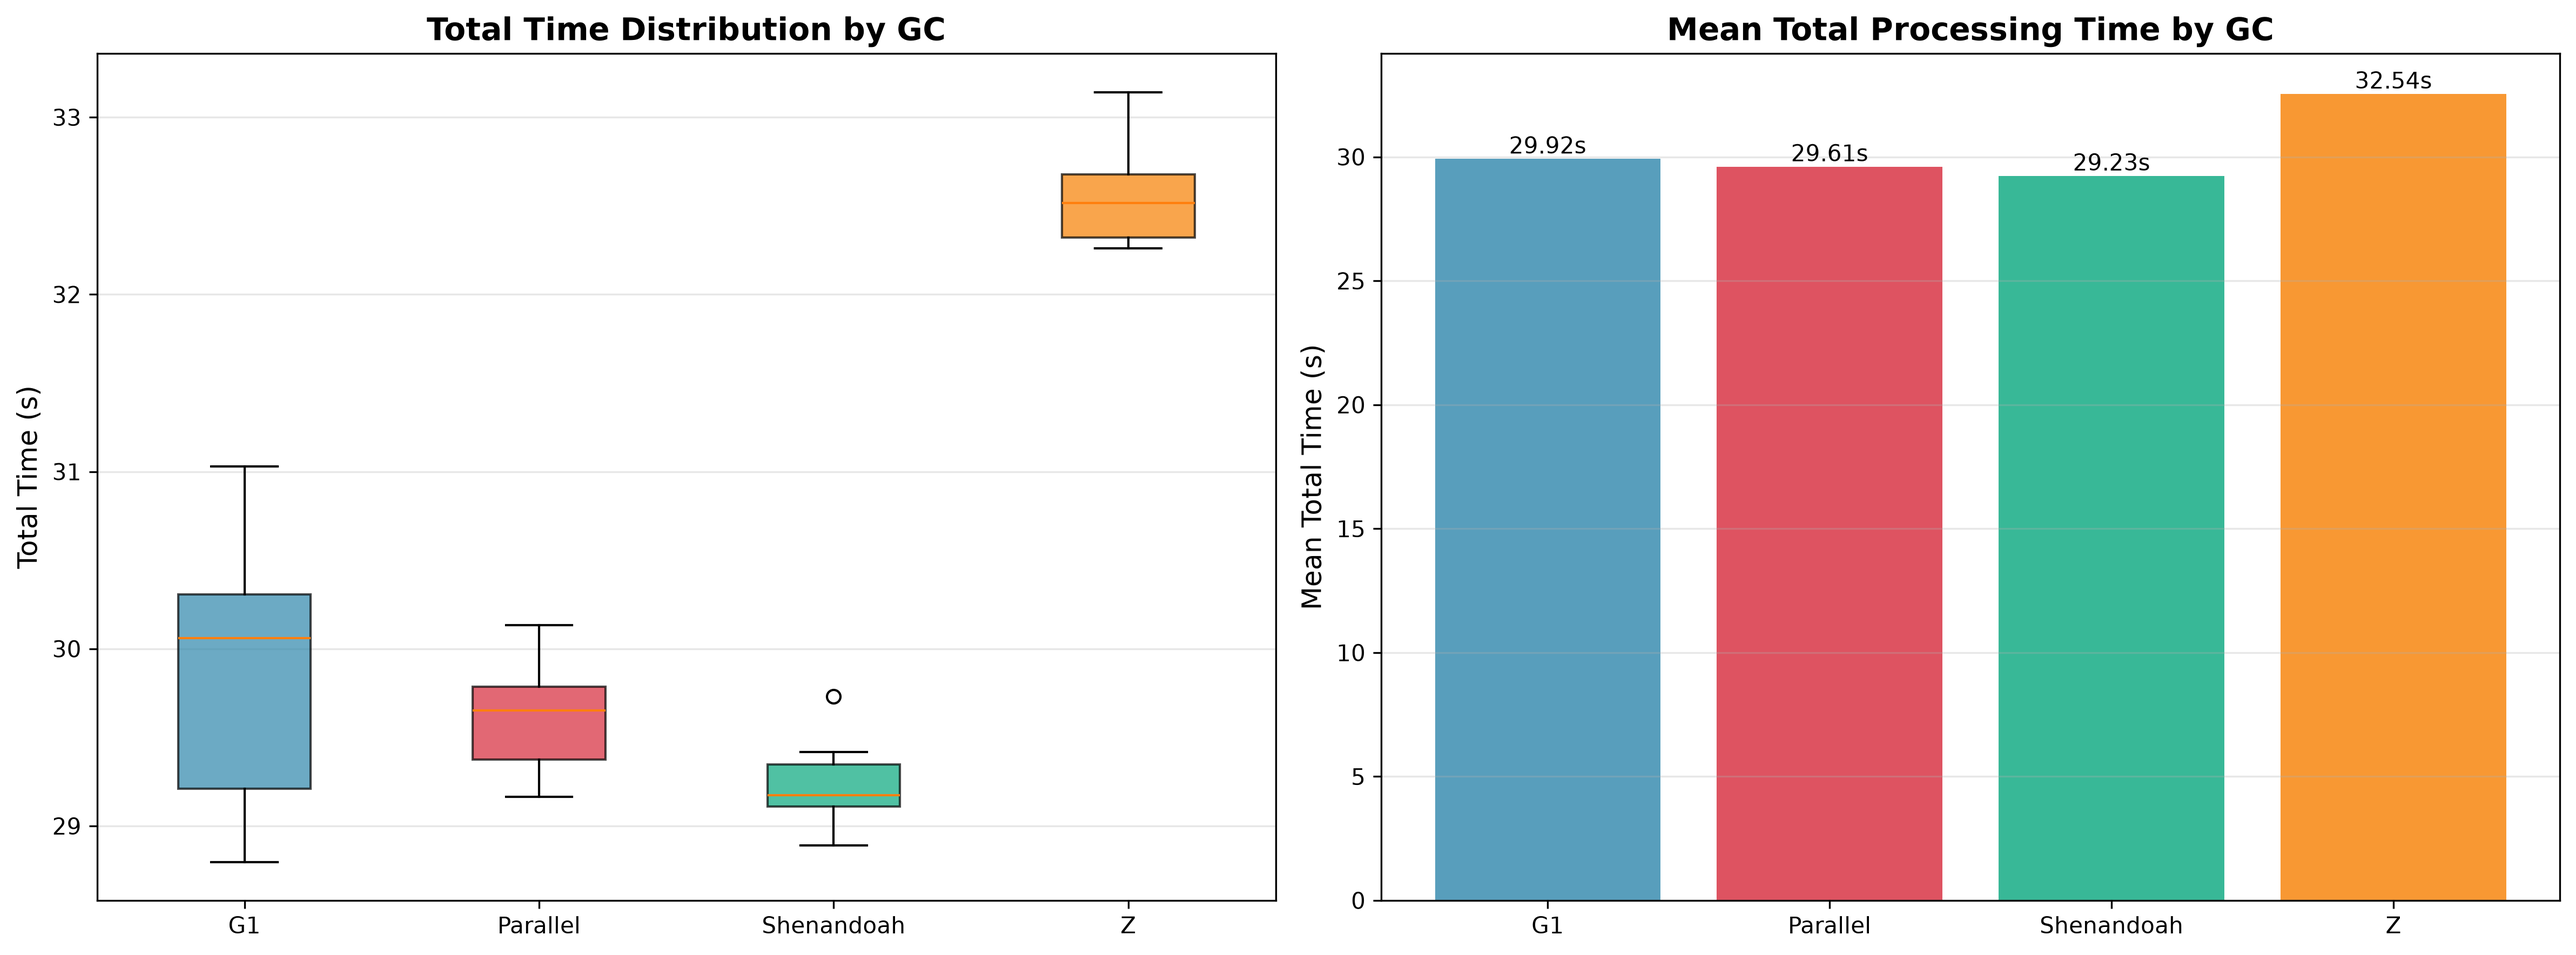
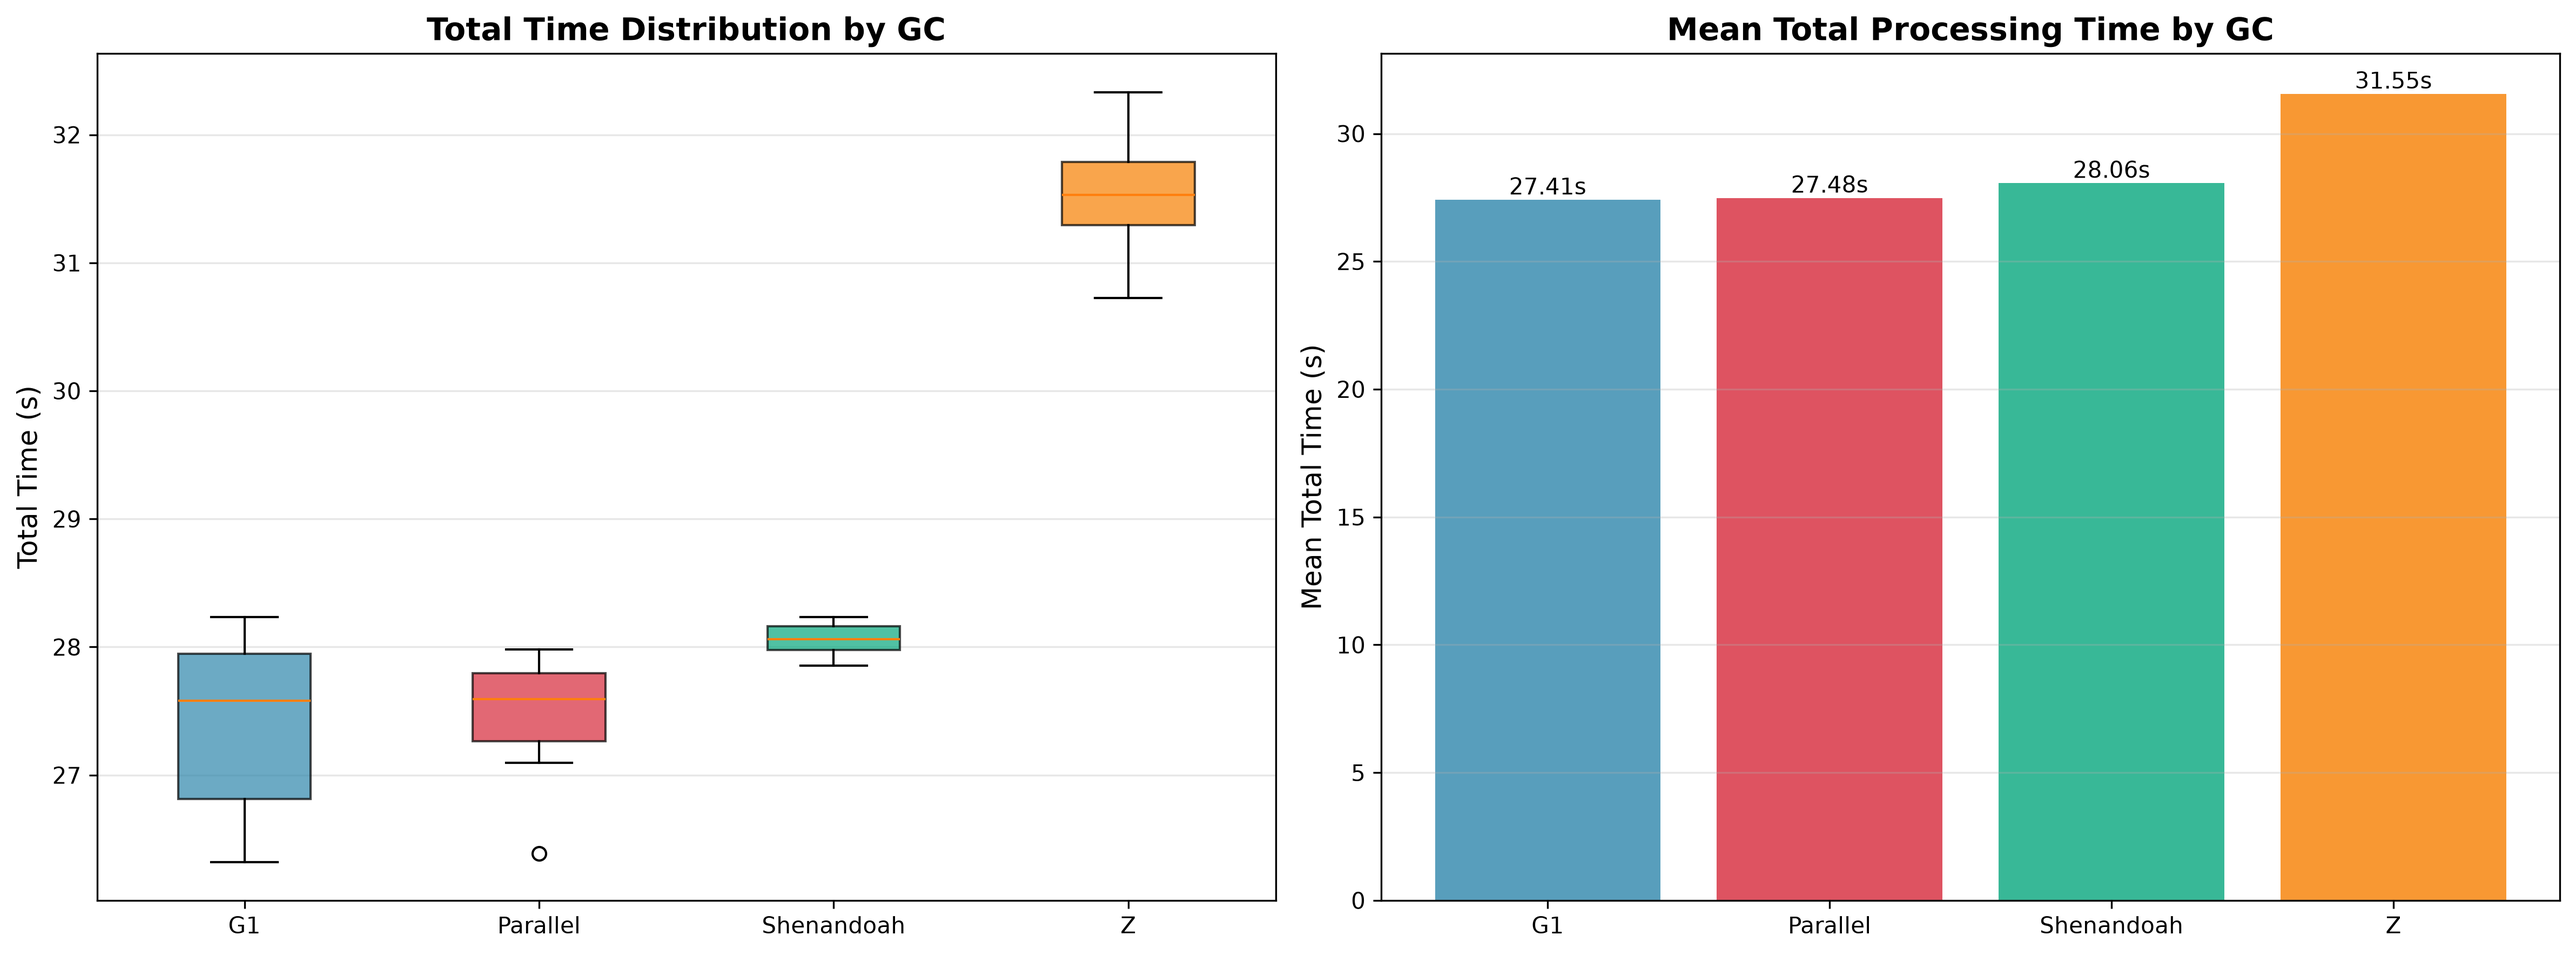
Refresh benchmark docs

diff --git a/docs/6-gc/README.md b/docs/6-gc/README.md
@@ -19,19 +19,17 @@ Each GC runs the same fixed-parameter conjunction pipeline 10 times to measure t
 
 | GC         | Mean Time | Std Dev | Min    | Max    | Conjunctions |
 |------------|-----------|---------|--------|--------|--------------|
-| G1         | 29.92s    | 0.79s   | 28.80s | 31.03s | 58,405       |
-| Parallel   | 29.61s    | 0.30s   | 29.16s | 30.13s | 58,405       |
-| Shenandoah | 29.23s    | 0.23s   | 28.89s | 29.73s | 58,405       |
-| Z          | 32.54s    | 0.27s   | 32.26s | 33.14s | 58,405       |
+| G1         | 27.41s    | 0.66s   | 26.32s | 28.23s | 58,405       |
+| Parallel   | 27.48s    | 0.48s   | 26.39s | 27.98s | 58,405       |
+| Shenandoah | 28.06s    | 0.13s   | 27.86s | 28.23s | 58,405       |
+| Z          | 31.55s    | 0.50s   | 30.73s | 32.33s | 58,405       |
 
 All four detect identical conjunctions. The difference is pure runtime.
 
-G1, Parallel and Shenandoah span 2.3%, too close for ten samples to separate. Shenandoah is fastest on the mean and
-holds the tightest spread, 0.23s against G1's 0.79s.
+G1, Parallel and Shenandoah are within 2.4% of each other, practically within noise.
 
-ZGC is 11.3% slower than Shenandoah. Each iteration allocates a 2.9 GB position cache and tens of millions of
-short-lived detections in one 24 h pass, then drops them all. Generational copying collectors handle that shape well,
-while ZGC's concurrent machinery is built to keep pause times down, which is not the constraint here.
+ZGC is the outlier, 15.1% slower than G1. Each iteration allocates a 2.9 GB position cache and tens of millions of
+short-lived detections, then drops them all, and ZGC is built for pause time rather than throughput. But that's a guess.
 
 **Recommendation: G1**, the default, since nothing beat it decisively enough to justify pinning an alternative.
 

diff --git a/docs/8-socrates-comparison/README.md b/docs/8-socrates-comparison/README.md
@@ -97,9 +97,10 @@ Agreement is flat at 99.7%+ across all seven days.
 
 ![SOCRATES events we missed, by reported miss distance and relative velocity](2_missed_events.png)
 
-**128 SOCRATES only.** 33 sit within 0.5 km of the 5 km wall (SOCRATES just under, us just over). 106 close below
-325 m/s: slow co-orbiting pairs that survived the 10 m/s filter, individuated differently by the two systems. The
-groups overlap by 20. The other 9 close at 14.5-16.3 km/s, above the 13.7 km/s capture guarantee: real grid misses.
+**128 SOCRATES only.** 106 close below 325 m/s: slow co-orbiting pairs that survived the 10 m/s filter. The 84 km
+tolerance merges successive approaches that SOCRATES reports separately, and we report the closest of them. 13 close at
+14.4-16.3 km/s, above the 13.7 km/s capture guarantee. Those are real screening losses. The last 9 sit at 4.952-5.000
+km, SOCRATES just under the wall and us just over.
 
 **286 ours only.** 60 sit within 0.5 km of the wall and 1 is slow. SOCRATES does not report the pairs of the other 225,
 though both objects appear elsewhere in its output. Vallado's reference SGP4 puts all 225 under 5 km. 25% have orbital
@@ -107,7 +108,7 @@ planes 175° or more apart (1.1% of matched events), and they thin out to ~0 at 
 George & Harvey (AMOS 2011) found both signatures in the misses of STK Advanced CAT's orbit path pre-filter. SOCRATES
 runs on STK CAT, but does not publish which pre-filters it enables.
 
-## Inputs (regenerable)
+## Inputs
 
 `socrates.csv` and `active.txt` are snapshots and cannot be regenerated with the exact same data used here. Their URLs
 serve the current lists, not the ones this comparison ran on.

diff --git a/docs/7-subwindow-count/README.md b/docs/7-subwindow-count/README.md
@@ -14,14 +14,14 @@ single-window case.
 
 Rough PositionCache size per subwindow for 30k satellites at step-seconds=10.8:
 
-| Window   | Count | Steps/Sub | Cache/Sub |
-|----------|-------|-----------|-----------|
-| 24 hours | 1     | 8,001     | 2.9 GB    |
-| 24 hours | 4     | 2,001     | 0.7 GB    |
-| 24 hours | 8     | 1,001     | 0.4 GB    |
-| 7 days   | 7     | 8,001     | 2.9 GB    |
-| 7 days   | 14    | 4,001     | 1.4 GB    |
-| 7 days   | 28    | 2,001     | 0.7 GB    |
+| Window   | Count | Samples/Sub | Cache/Sub |
+|----------|-------|-------------|-----------|
+| 24 hours | 1     | 8,001       | 2.9 GB    |
+| 24 hours | 4     | 2,001       | 0.7 GB    |
+| 24 hours | 8     | 1,001       | 0.4 GB    |
+| 7 days   | 7     | 8,001       | 2.9 GB    |
+| 7 days   | 14    | 4,001       | 1.4 GB    |
+| 7 days   | 28    | 2,001       | 0.7 GB    |
 
 These are float array sizes only. Actual heap is higher: the KnotCache stays reachable while the PositionCache is built,
 adding another 6% at stride 32, on top of intermediate collections, Spring Boot and the JVM. At very high counts the
